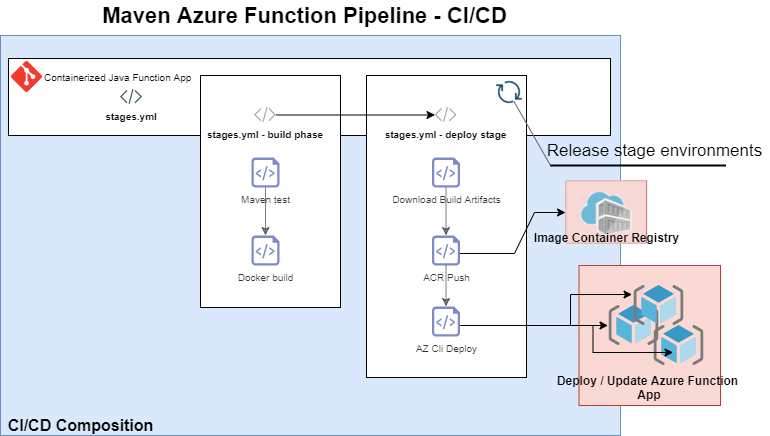
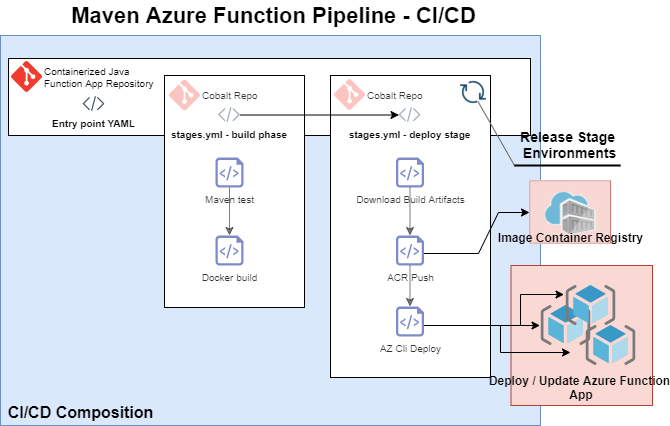
add finishing touches before PR

Changed region(s): [[0.0, 0.1221, 1.0, 0.9765], [0.0, 0.0, 0.806, 0.0915], [0.0, 0.946, 0.2388, 1.0]]

diff --git a/devops/providers/azure-devops/templates/function_app_maven/examples/function_app_usage.md b/devops/providers/azure-devops/templates/function_app_maven/examples/function_app_usage.md
@@ -1,0 +1,116 @@
+
+## Containerized Java Function App deployments into Azure via Azure Devops
+
+This document describes how to deploy a **Containerized Java Function App** to Azure in Azure Devops by taking advantage of the **Maven Azure Function Pipeline** staging template.
+
+### Prerequisites
+
+- A running Azure Function App Service deployed from a Cobalt Infrastructure Template.
+- A Containerized Java Function App
+
+### Step 1: Prepare project structure
+
+Ensure project files (i.e. `settings.xml`, `Dockerfile`, `pom.xml`) can be found relative to the root directory of your project. In the next step, the devops pipelines needs to be configured to consume these.
+
+    ```bash
+    $ tree myjavacontainerapp
+    ├───Dockerfile
+    ├───pom.xml
+    ├───entry_point.yml
+    └───maven
+    │    ├───settings.xml
+    |    └───...
+    └───src
+          └───main
+              ├───...
+              └───..
+    ```
+
+### Step 2: Configure the Maven Azure Function Pipeline
+
+The starting point of a **Containerized Java Function App** deployment will begin with a `yaml` file within the same project. This starting point passes values to the **Maven Azure Function Pipeline** and should be configured in Azure DevOps. More instructions on Azure Devops configuration can be found [here](https://docs.microsoft.com/en-us/azure/devops/pipelines/get-started/pipelines-get-started?view=azure-devops#define-pipelines-using-yaml-syntax). Here is what the starting point of a **Containerized Java Function App** pipeline might look like:
+
+```yaml
+# Omitting PR and Trigger blocks...
+variables:
+    - group: 'Azure - Common'
+
+    - name: MAVEN_SETTINGS      # Relative path to the settings.xml file.
+      value: './myjavacontainerapp/maven/settings.xml'
+
+    - name: DOCKERFILE          # Relative path to the Docker File.
+      value: './myjavacontainerapp/Dockerfile'
+
+    - name: POM_FILE            # Relative path to the POM File.
+      value: './myjavacontainerapp/pom.xml'
+
+    - name: IMAGE_NAME          # Determines name of the Docker image.
+      value: 'java-container-application'
+
+    - name: DOCKER_BUILD_ARGS   # Docker build task arguments
+      value: 'VSTS_FEED_TOKEN=$(VSTS_FEED_TOKEN)' # This example passes optional build credentials.
+
+resources:
+    repositories:
+      - repository: cobalt
+        type: git
+        name: <<$AZURE_DEVOPS_HOST_PROJECT_NAME>>/cobalt
+
+stages:
+- template: devops/providers/azure-devops/templates/function_app_maven/stages.yml
+  parameters:
+    environments:
+    - name: 'devint'
+
+    - ${{ if eq(variables['Build.SourceBranchName'], 'master') }}: # This example executes qa and prod release steps when committing to master
+        - name: 'qa'
+        - name: 'prod'
+```
+
+  **Required Configurations**
+
+  - `repositories` keyword mapping: This is the syntax needed to reference an external repository. The **Maven Azure Function Pipeline** templates live in the infrastructure repository and not in the client app repository with the **Containerized Java Function App**.
+  - `template` attribute keyword: This is the syntax needed to use another `yaml` file as a template. The `yaml` file being referenced must be the full path to the staging `yaml` file.
+  - `environments` stanza: This impacts the variable groups that are required for the pipeline. This controls which environment the application will be deployed to. It should map to the environments configured in the infrastructure pipeline. In the example shown here, the environments deployed will depend on whether or not the build has been triggered from the `master` branch. This enables non-master builds to deploy only to `devint`.
+  - `MAVEN_SETTINGS` variable: 'Use this variable to pass the path to your settings.xml file.
+  - `POM_FILE` variable: 'Use this variable to pass the path to your pom file.
+  - `DOCKERFILE` variable: Use this parameter to pass the path to your Docker file.
+  - `IMAGE_NAME` variable: Use this parameter to give a name to your application docker image.
+
+  **Optional Configurations**
+
+  - `DOCKER_BUILD_ARGS` variable: Arguments for the Docker build command.
+
+### Step 3: Configure the Azure DevOps Variable Groups
+
+Variable groups are named in a way that allows the **Maven Azure Function Pipeline** to target release stage environments. The following tables describe the variable group names required to support a **Containerized Java Function App** deployment. The value columns provide concrete examples for how one might satisfy the variables in each group.
+
+`Azure - Common`
+
+  This values in this group are mainly driven by the `Azure Target Env - $ENV` variable groups. They support a multi-environment pipeline.
+
+  | name | value | description | sensitive? | source |
+  | ---  | ---   | ---         | ---        | ---    |
+  | `AGENT_POOL` | `Hosted Ubuntu 1604` | Agent on which to run release | no | ADO |
+  | `RESOURCE_GROUP_NAME` | `$(ENVIRONMENT_RG_PREFIX)-$(PREFIX_BASE)-app-rg` | Resource group in which the App Service Plan lives | no | ADO - see `Azure Target Env - $ENV` |
+  | `FUNCTION_APP_NAME` | `$(ENVIRONMENT_BASE_NAME_21)-myazurefunction` | Tenant linked to subscription.| yes | ADO - see `Azure Target Env - $ENV` |
+  | `CONTAINER_REGISTRY_NAME` | `$(ENVIRONMENT_STORAGE_PREFIX)cr` | ACR name for holding jar files as an image | no | ADO - see `Azure Target Env - $ENV` |
+  | `PREFIX_BASE` | ex. `organization-name` | Prechosen prefix created by infrastructure deployment | no |  ADO |
+  | `SERVICE_CONNECTION_NAME` | ex `cobalt-service-principal` | Default ADO Service Connection name for deployment | no | ADO |
+
+`Azure Target Env - $ENV`
+
+  This is the starting point for targeting a Terraform based Cobalt Infrastructure Template running in the cloud. This group holds the values that are reflected in the naming conventions of all Azure infrastructure resource names. The source of these values can be found in the Terraform workspace state file per deployment environment of the running instructure. Locally running `Terraform output` in the appropriate workspace is another way to access these values.
+
+  > `$ENV` is `devint`, `qa`, `prod`, etc...
+
+  | name | value | description | sensitive? | source |
+  | ---  | ---   | ---         | ---        | ---    |
+  | `ENVIRONMENT_BASE_NAME_21` | ex `devint-devworkspac-5vjyftn2` | Base resource name | no | ADO - driven from the output of `terraform apply` |
+  | `ENVIRONMENT_RG_PREFIX` | ex `devint-devworkspace-5vjyftn2` | Resource group prefix | no | ADO - driven from the output of `terraform apply` |
+  | `ENVIRONMENT_STORAGE_PREFIX` | ex `devintdevwrksp5vjyftn2` | Storage account prefix | no | ADO - driven from the output of `terraform apply` |
+  | `SERVICE_CONNECTION_NAME` | ex `cobalt-service-principal` | ADO Service Connection name override for deployment stage. | no | ADO |
+
+### Step 4: Deploy the Containerized Java Function App
+
+The final step in the process is to execute the **Maven Azure Function Pipeline** from the **Containerized Java Function App**.

diff --git a/devops/providers/azure-devops/templates/function_app_maven/README.md b/devops/providers/azure-devops/templates/function_app_maven/README.md
@@ -10,7 +10,7 @@ These YAML templates are designed to handle the build and deploy steps for a ser
 
 ## What is the Maven Azure Function Pipeline?
 
-In order to simplify **CI/CD** configurations for a **Containerized Java Function App**, a **CI/CD** workflow is being orchestrated by a single `yaml` file. This workflow is the **Maven Azure Function Pipeline**. To kick off this workflow, the Containerized Java Function App is responsible for passing it's pipeline variable groups and declared environments to the pipeline. The pipeline then takes advantage of maven `yaml` and docker `yaml` tasks to test the application, build an application container image and push the image to the targeted Azure Function.
+In order to simplify **CI/CD** configurations for a **Containerized Java Function App**, a **CI/CD** workflow is being orchestrated by a single `yaml` file. This workflow is the **Maven Azure Function Pipeline**. To kick off this workflow, the Containerized Java Function App passes it's pipeline variable groups, important file paths and declared environments to the pipeline. The pipeline then takes advantage of maven `yaml` and docker `yaml` tasks to test the application, build an application container image and push the image to the targeted Azure Function. In this implementation, the Maven Azure Function Pipeline is hosted in the Cobalt repo but the client application that kicks off the workflow should live in it's own repository.
 
 - ### Maven Azure Function Pipeline
 
@@ -22,7 +22,7 @@ In order to simplify **CI/CD** configurations for a **Containerized Java Functio
 
     - **[stages.yml](./stages.yml)**
 
-        Validates that the **Containerized Java Function App** can build once and then executes a series of release tasks per environment passed directly to it from a starting point `yaml` file. All `yaml` files are hosted in the same repo as the Containerized Java Function App.
+        Validates that the **Containerized Java Function App** can build once and then executes a series of release tasks per environment. Environments are passed directly to it from a starting point `yaml` file that is hosted in the client application repo.
 
         | primary features | `yaml` file | behavior |
         | ---  | ---   | ---  |
@@ -38,10 +38,9 @@ In order to simplify **CI/CD** configurations for a **Containerized Java Functio
 
     | Variable Group | YAML FILE |
     | ---      | ---         |
-    |  `Azure Common Secrets` | starting point yaml |
     |  `Azure - Common` | starting point yaml |
     |  `Azure Target Env - ${{ environment }}` | stages.yml |
 
 - ### Environment boundaries
 
-   The release/cd stage cycles through a list of environments given to the **Maven Azure Function Pipeline**. Environments are properly defined by creating an Azure Devops variable group with the environment naming convention (i.e. `Azure Target Env - ${{ environment }}`). The variable group should hold values needed to target a running App Service deployed from a previous Cobalt Infrastructure Template deployment.
+   The release/cd stage of the **Maven Azure Function Pipeline** cycles through a list of environments provided to it. Environments are properly defined by creating an Azure Devops variable group with the environment naming convention (i.e. `Azure Target Env - ${{ environment }}`). The variable group should hold values needed to for the client application to target a Function App Service currently running from a previous Cobalt Infrastructure Template deployment.
